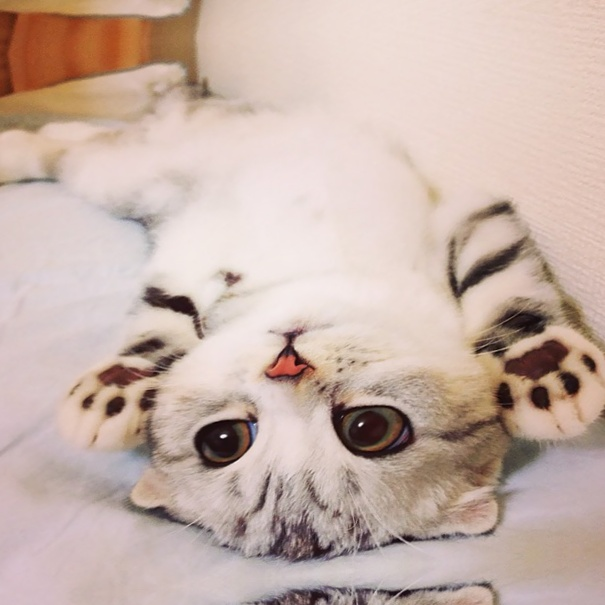
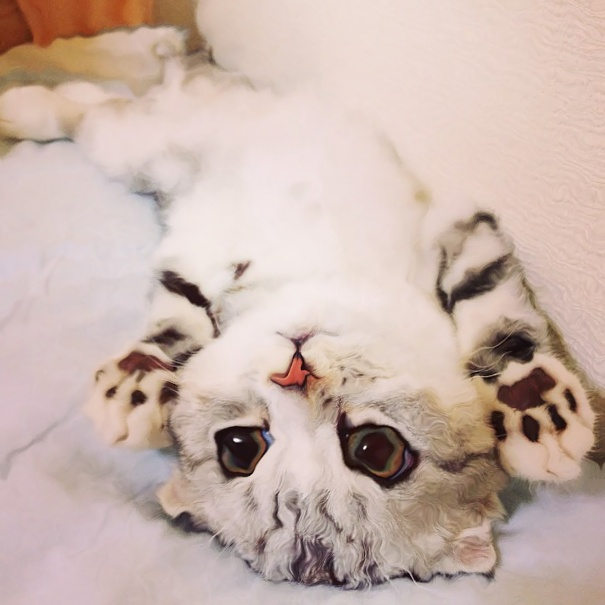
update

diff --git a/index.html b/index.html
@@ -1809,6 +1809,24 @@ A huge list of many types of data augmentations techniques used for deep learnin
         </div>
     </li>
     <!----------------------------------------------------------------------------------------------------------------->
+    <!-- Elastic Transform -- 9 -->
+    <!----------------------------------------------------------------------------------------------------------------->  
+    <li class="item_list">
+        <button onclick="show('aug_elastic_transform')">Elastic Transform</button>
+        <div id="aug_elastic_transform" style="display: none;">
+            Source: <a target="_blank" 
+                       href="https://imgaug.readthedocs.io/en/latest/source/overview/imgcorruptlike.html#elastictransform">Imgaug</a><br>
+            <figure>
+                <img src="images/kitty.jpg"> 
+                <figcaption>Original</figcaption>
+            </figure>
+            <figure>
+                <img src="images/kitty_elastic_transform.jpg">
+                <figcaption>Augmentation</figcaption>
+            </figure>  
+        </div>
+    </li>
+    <!----------------------------------------------------------------------------------------------------------------->
 </ul>
 
 <!--------------------------------------------------------------------------------------------------------------------->

diff --git a/images/augmentation.py b/images/augmentation.py
@@ -426,6 +426,10 @@ if __name__ == '__main__':
     elif augmentation == 'spatter':
         transform = iaa.imgcorruptlike.Spatter(severity=2)
         transformed_image = transform(image=image)
+
+    elif augmentation == 'elastic_transform':
+        transform = iaa.imgcorruptlike.ElasticTransform(severity=5)
+        transformed_image = transform(image=image)
     
     ## Edges
 
